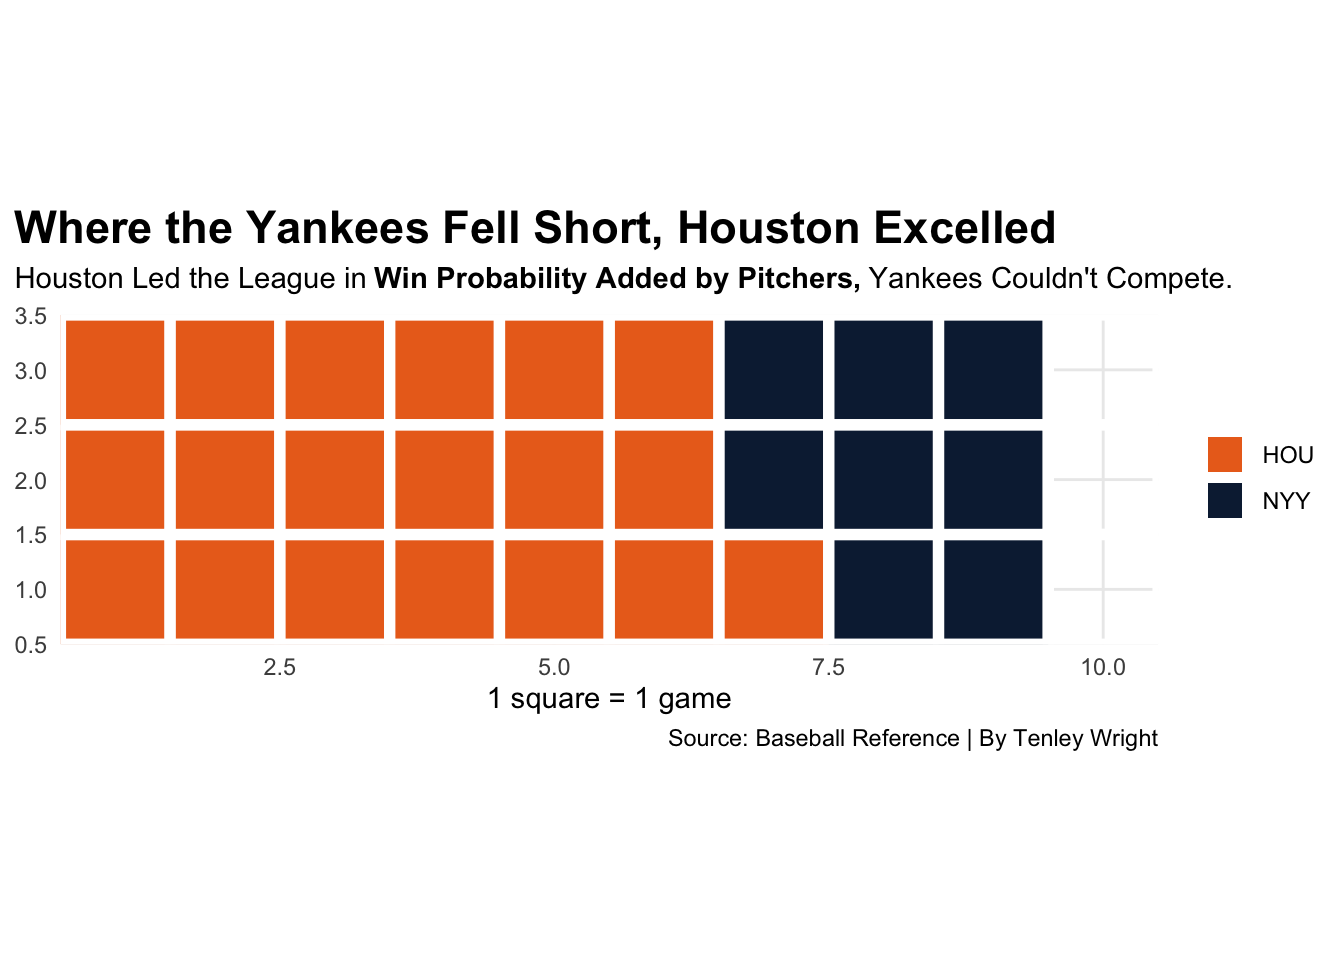
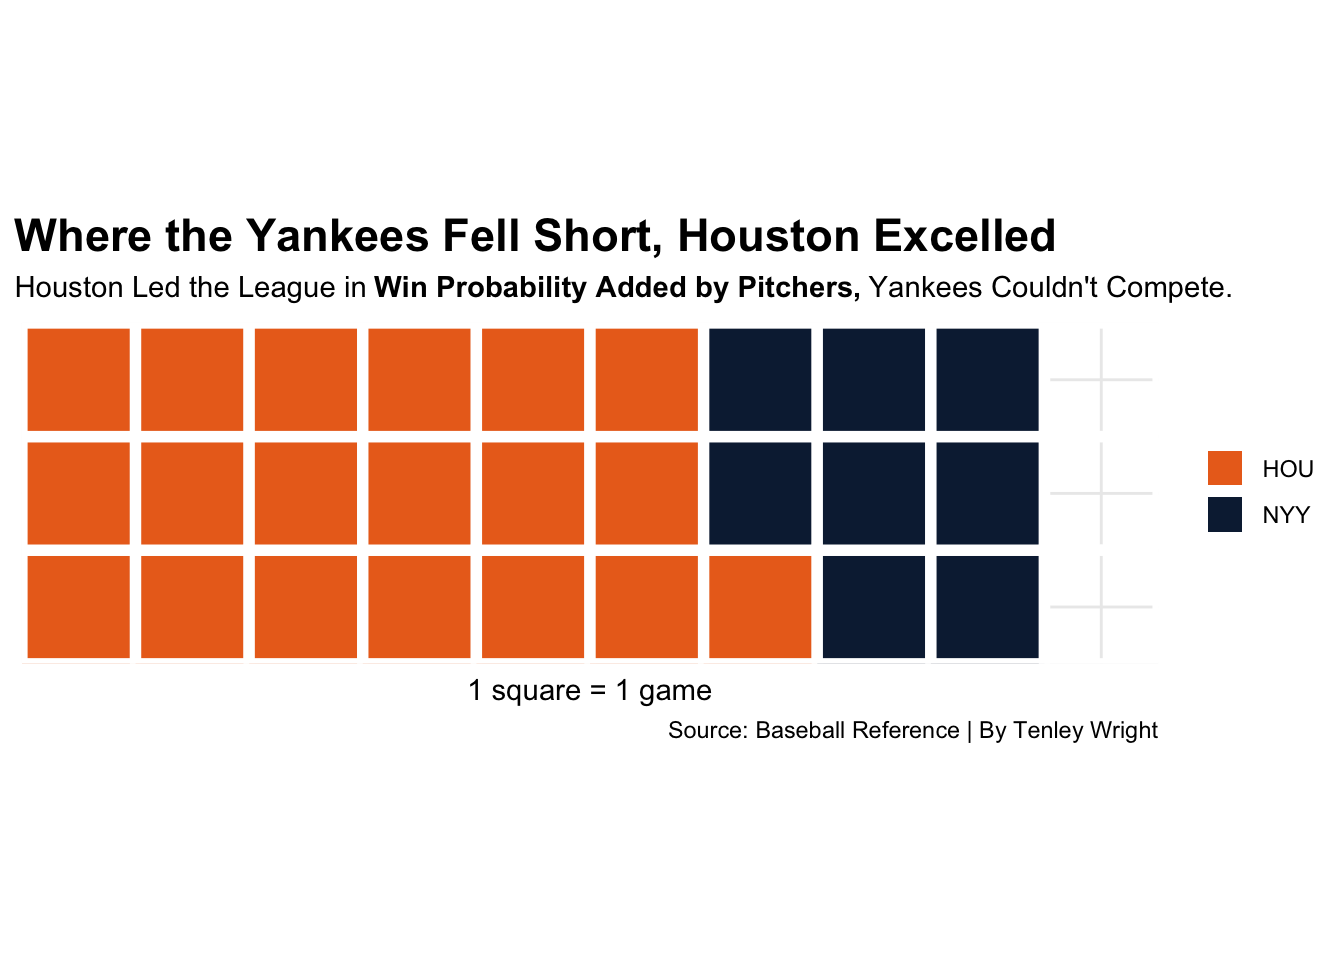
hopefully final commit before grammar check

diff --git a/posts/could-the-2019-yankees-end-the-drought/index.html b/posts/could-the-2019-yankees-end-the-drought/index.html
@@ -378,13 +378,14 @@ code span.wa { color: #60a0b0; font-weight: bold; font-style: italic; } /* Warni
 <span id="cb3-11"><a href="#cb3-11" aria-hidden="true" tabindex="-1"></a>    ) <span class="sc">+</span></span>
 <span id="cb3-12"><a href="#cb3-12" aria-hidden="true" tabindex="-1"></a>  <span class="fu">theme_minimal</span>() <span class="sc">+</span> </span>
 <span id="cb3-13"><a href="#cb3-13" aria-hidden="true" tabindex="-1"></a>  <span class="fu">theme</span>(</span>
-<span id="cb3-14"><a href="#cb3-14" aria-hidden="true" tabindex="-1"></a>    <span class="at">plot.title =</span> <span class="fu">element_text</span>(<span class="at">size =</span> <span class="dv">17</span>, <span class="at">face =</span> <span class="st">"bold"</span>),</span>
-<span id="cb3-15"><a href="#cb3-15" aria-hidden="true" tabindex="-1"></a>    <span class="at">axis.title =</span> <span class="fu">element_text</span>(<span class="at">size =</span> <span class="dv">11</span>), </span>
-<span id="cb3-16"><a href="#cb3-16" aria-hidden="true" tabindex="-1"></a>    <span class="at">plot.subtitle =</span> <span class="fu">element_text</span>(<span class="at">size=</span><span class="dv">11</span>), </span>
-<span id="cb3-17"><a href="#cb3-17" aria-hidden="true" tabindex="-1"></a>    <span class="at">panel.grid.minor =</span> <span class="fu">element_blank</span>(),</span>
-<span id="cb3-18"><a href="#cb3-18" aria-hidden="true" tabindex="-1"></a>    <span class="at">plot.title.position =</span> <span class="st">"plot"</span>,</span>
-<span id="cb3-19"><a href="#cb3-19" aria-hidden="true" tabindex="-1"></a>    <span class="at">legend.position=</span><span class="st">"right"</span></span>
-<span id="cb3-20"><a href="#cb3-20" aria-hidden="true" tabindex="-1"></a>    ) </span></code><button title="Copy to Clipboard" class="code-copy-button"><i class="bi"></i></button></pre></div>
+<span id="cb3-14"><a href="#cb3-14" aria-hidden="true" tabindex="-1"></a>    <span class="at">axis.text =</span> <span class="fu">element_blank</span>(),</span>
+<span id="cb3-15"><a href="#cb3-15" aria-hidden="true" tabindex="-1"></a>    <span class="at">plot.title =</span> <span class="fu">element_text</span>(<span class="at">size =</span> <span class="dv">17</span>, <span class="at">face =</span> <span class="st">"bold"</span>),</span>
+<span id="cb3-16"><a href="#cb3-16" aria-hidden="true" tabindex="-1"></a>    <span class="at">axis.title =</span> <span class="fu">element_text</span>(<span class="at">size =</span> <span class="dv">11</span>), </span>
+<span id="cb3-17"><a href="#cb3-17" aria-hidden="true" tabindex="-1"></a>    <span class="at">plot.subtitle =</span> <span class="fu">element_text</span>(<span class="at">size=</span><span class="dv">11</span>), </span>
+<span id="cb3-18"><a href="#cb3-18" aria-hidden="true" tabindex="-1"></a>    <span class="at">panel.grid.minor =</span> <span class="fu">element_blank</span>(),</span>
+<span id="cb3-19"><a href="#cb3-19" aria-hidden="true" tabindex="-1"></a>    <span class="at">plot.title.position =</span> <span class="st">"plot"</span>,</span>
+<span id="cb3-20"><a href="#cb3-20" aria-hidden="true" tabindex="-1"></a>    <span class="at">legend.position=</span><span class="st">"right"</span></span>
+<span id="cb3-21"><a href="#cb3-21" aria-hidden="true" tabindex="-1"></a>    ) </span></code><button title="Copy to Clipboard" class="code-copy-button"><i class="bi"></i></button></pre></div>
 </details>
 <div class="cell-output-display">
 <p><img src="index_files/figure-html/unnamed-chunk-3-1.png" class="img-fluid" width="672"></p>
@@ -404,16 +405,17 @@ code span.wa { color: #60a0b0; font-weight: bold; font-style: italic; } /* Warni
 <span id="cb4-8"><a href="#cb4-8" aria-hidden="true" tabindex="-1"></a>    <span class="at">title=</span><span class="st">"The Yankees Never Stood a Chance Against Houston"</span>, </span>
 <span id="cb4-9"><a href="#cb4-9" aria-hidden="true" tabindex="-1"></a>    <span class="at">subtitle=</span><span class="st">"Astros Pitching dominated the League in"</span> <span class="sc">~</span> <span class="fu">bold</span>(<span class="st">"Runs Saved with Runners on Base."</span>)<span class="sc">~</span><span class="st">""</span>,</span>
 <span id="cb4-10"><a href="#cb4-10" aria-hidden="true" tabindex="-1"></a>    <span class="at">caption=</span><span class="st">"Source: Baseball Reference | By Tenley Wright"</span></span>
-<span id="cb4-11"><a href="#cb4-11" aria-hidden="true" tabindex="-1"></a>    ) <span class="sc">+</span></span>
+<span id="cb4-11"><a href="#cb4-11" aria-hidden="true" tabindex="-1"></a>     )<span class="sc">+</span></span>
 <span id="cb4-12"><a href="#cb4-12" aria-hidden="true" tabindex="-1"></a>  <span class="fu">theme_minimal</span>() <span class="sc">+</span> </span>
 <span id="cb4-13"><a href="#cb4-13" aria-hidden="true" tabindex="-1"></a>  <span class="fu">theme</span>(</span>
-<span id="cb4-14"><a href="#cb4-14" aria-hidden="true" tabindex="-1"></a>    <span class="at">plot.title =</span> <span class="fu">element_text</span>(<span class="at">size =</span> <span class="dv">17</span>, <span class="at">face =</span> <span class="st">"bold"</span>),</span>
-<span id="cb4-15"><a href="#cb4-15" aria-hidden="true" tabindex="-1"></a>    <span class="at">axis.title =</span> <span class="fu">element_text</span>(<span class="at">size =</span> <span class="dv">14</span>), </span>
-<span id="cb4-16"><a href="#cb4-16" aria-hidden="true" tabindex="-1"></a>    <span class="at">plot.subtitle =</span> <span class="fu">element_text</span>(<span class="at">size=</span><span class="dv">12</span>), </span>
-<span id="cb4-17"><a href="#cb4-17" aria-hidden="true" tabindex="-1"></a>    <span class="at">panel.grid.minor =</span> <span class="fu">element_blank</span>(),</span>
-<span id="cb4-18"><a href="#cb4-18" aria-hidden="true" tabindex="-1"></a>    <span class="at">plot.title.position =</span> <span class="st">"plot"</span>,</span>
-<span id="cb4-19"><a href="#cb4-19" aria-hidden="true" tabindex="-1"></a>    <span class="at">legend.position=</span><span class="st">"right"</span></span>
-<span id="cb4-20"><a href="#cb4-20" aria-hidden="true" tabindex="-1"></a>    ) </span></code><button title="Copy to Clipboard" class="code-copy-button"><i class="bi"></i></button></pre></div>
+<span id="cb4-14"><a href="#cb4-14" aria-hidden="true" tabindex="-1"></a>    <span class="at">axis.text =</span> <span class="fu">element_blank</span>(),</span>
+<span id="cb4-15"><a href="#cb4-15" aria-hidden="true" tabindex="-1"></a>    <span class="at">plot.title =</span> <span class="fu">element_text</span>(<span class="at">size =</span> <span class="dv">17</span>, <span class="at">face =</span> <span class="st">"bold"</span>),</span>
+<span id="cb4-16"><a href="#cb4-16" aria-hidden="true" tabindex="-1"></a>    <span class="at">axis.title =</span> <span class="fu">element_text</span>(<span class="at">size =</span> <span class="dv">14</span>), </span>
+<span id="cb4-17"><a href="#cb4-17" aria-hidden="true" tabindex="-1"></a>    <span class="at">plot.subtitle =</span> <span class="fu">element_text</span>(<span class="at">size=</span><span class="dv">12</span>), </span>
+<span id="cb4-18"><a href="#cb4-18" aria-hidden="true" tabindex="-1"></a>    <span class="at">panel.grid.minor =</span> <span class="fu">element_blank</span>(),</span>
+<span id="cb4-19"><a href="#cb4-19" aria-hidden="true" tabindex="-1"></a>    <span class="at">plot.title.position =</span> <span class="st">"plot"</span>,</span>
+<span id="cb4-20"><a href="#cb4-20" aria-hidden="true" tabindex="-1"></a>    <span class="at">legend.position=</span><span class="st">"right"</span></span>
+<span id="cb4-21"><a href="#cb4-21" aria-hidden="true" tabindex="-1"></a>    ) </span></code><button title="Copy to Clipboard" class="code-copy-button"><i class="bi"></i></button></pre></div>
 </details>
 <div class="cell-output-display">
 <p><img src="index_files/figure-html/unnamed-chunk-4-1.png" class="img-fluid" width="672"></p>

diff --git a/index.html b/index.html
@@ -171,7 +171,7 @@ ul.task-list li input[type="checkbox"] {
 
 <div class="quarto-listing quarto-listing-container-default" id="listing-listing">
 <div class="list quarto-listing-default">
-<div class="quarto-post image-right" data-index="0" data-categories="Baseball,Code,Yankees" data-listing-date-sort="1683435600000" data-listing-file-modified-sort="1683342331756" data-listing-reading-time-sort="7.345">
+<div class="quarto-post image-right" data-index="0" data-categories="Baseball,Code,Yankees" data-listing-date-sort="1683435600000" data-listing-file-modified-sort="1683343397630" data-listing-reading-time-sort="7.405">
 <div class="thumbnail">
 <p><a href="./posts/could-the-2019-yankees-end-the-drought/index.html"> <img src="./posts/could-the-2019-yankees-end-the-drought/image.png" class="thumnail-image"> </a></p>
 </div>
